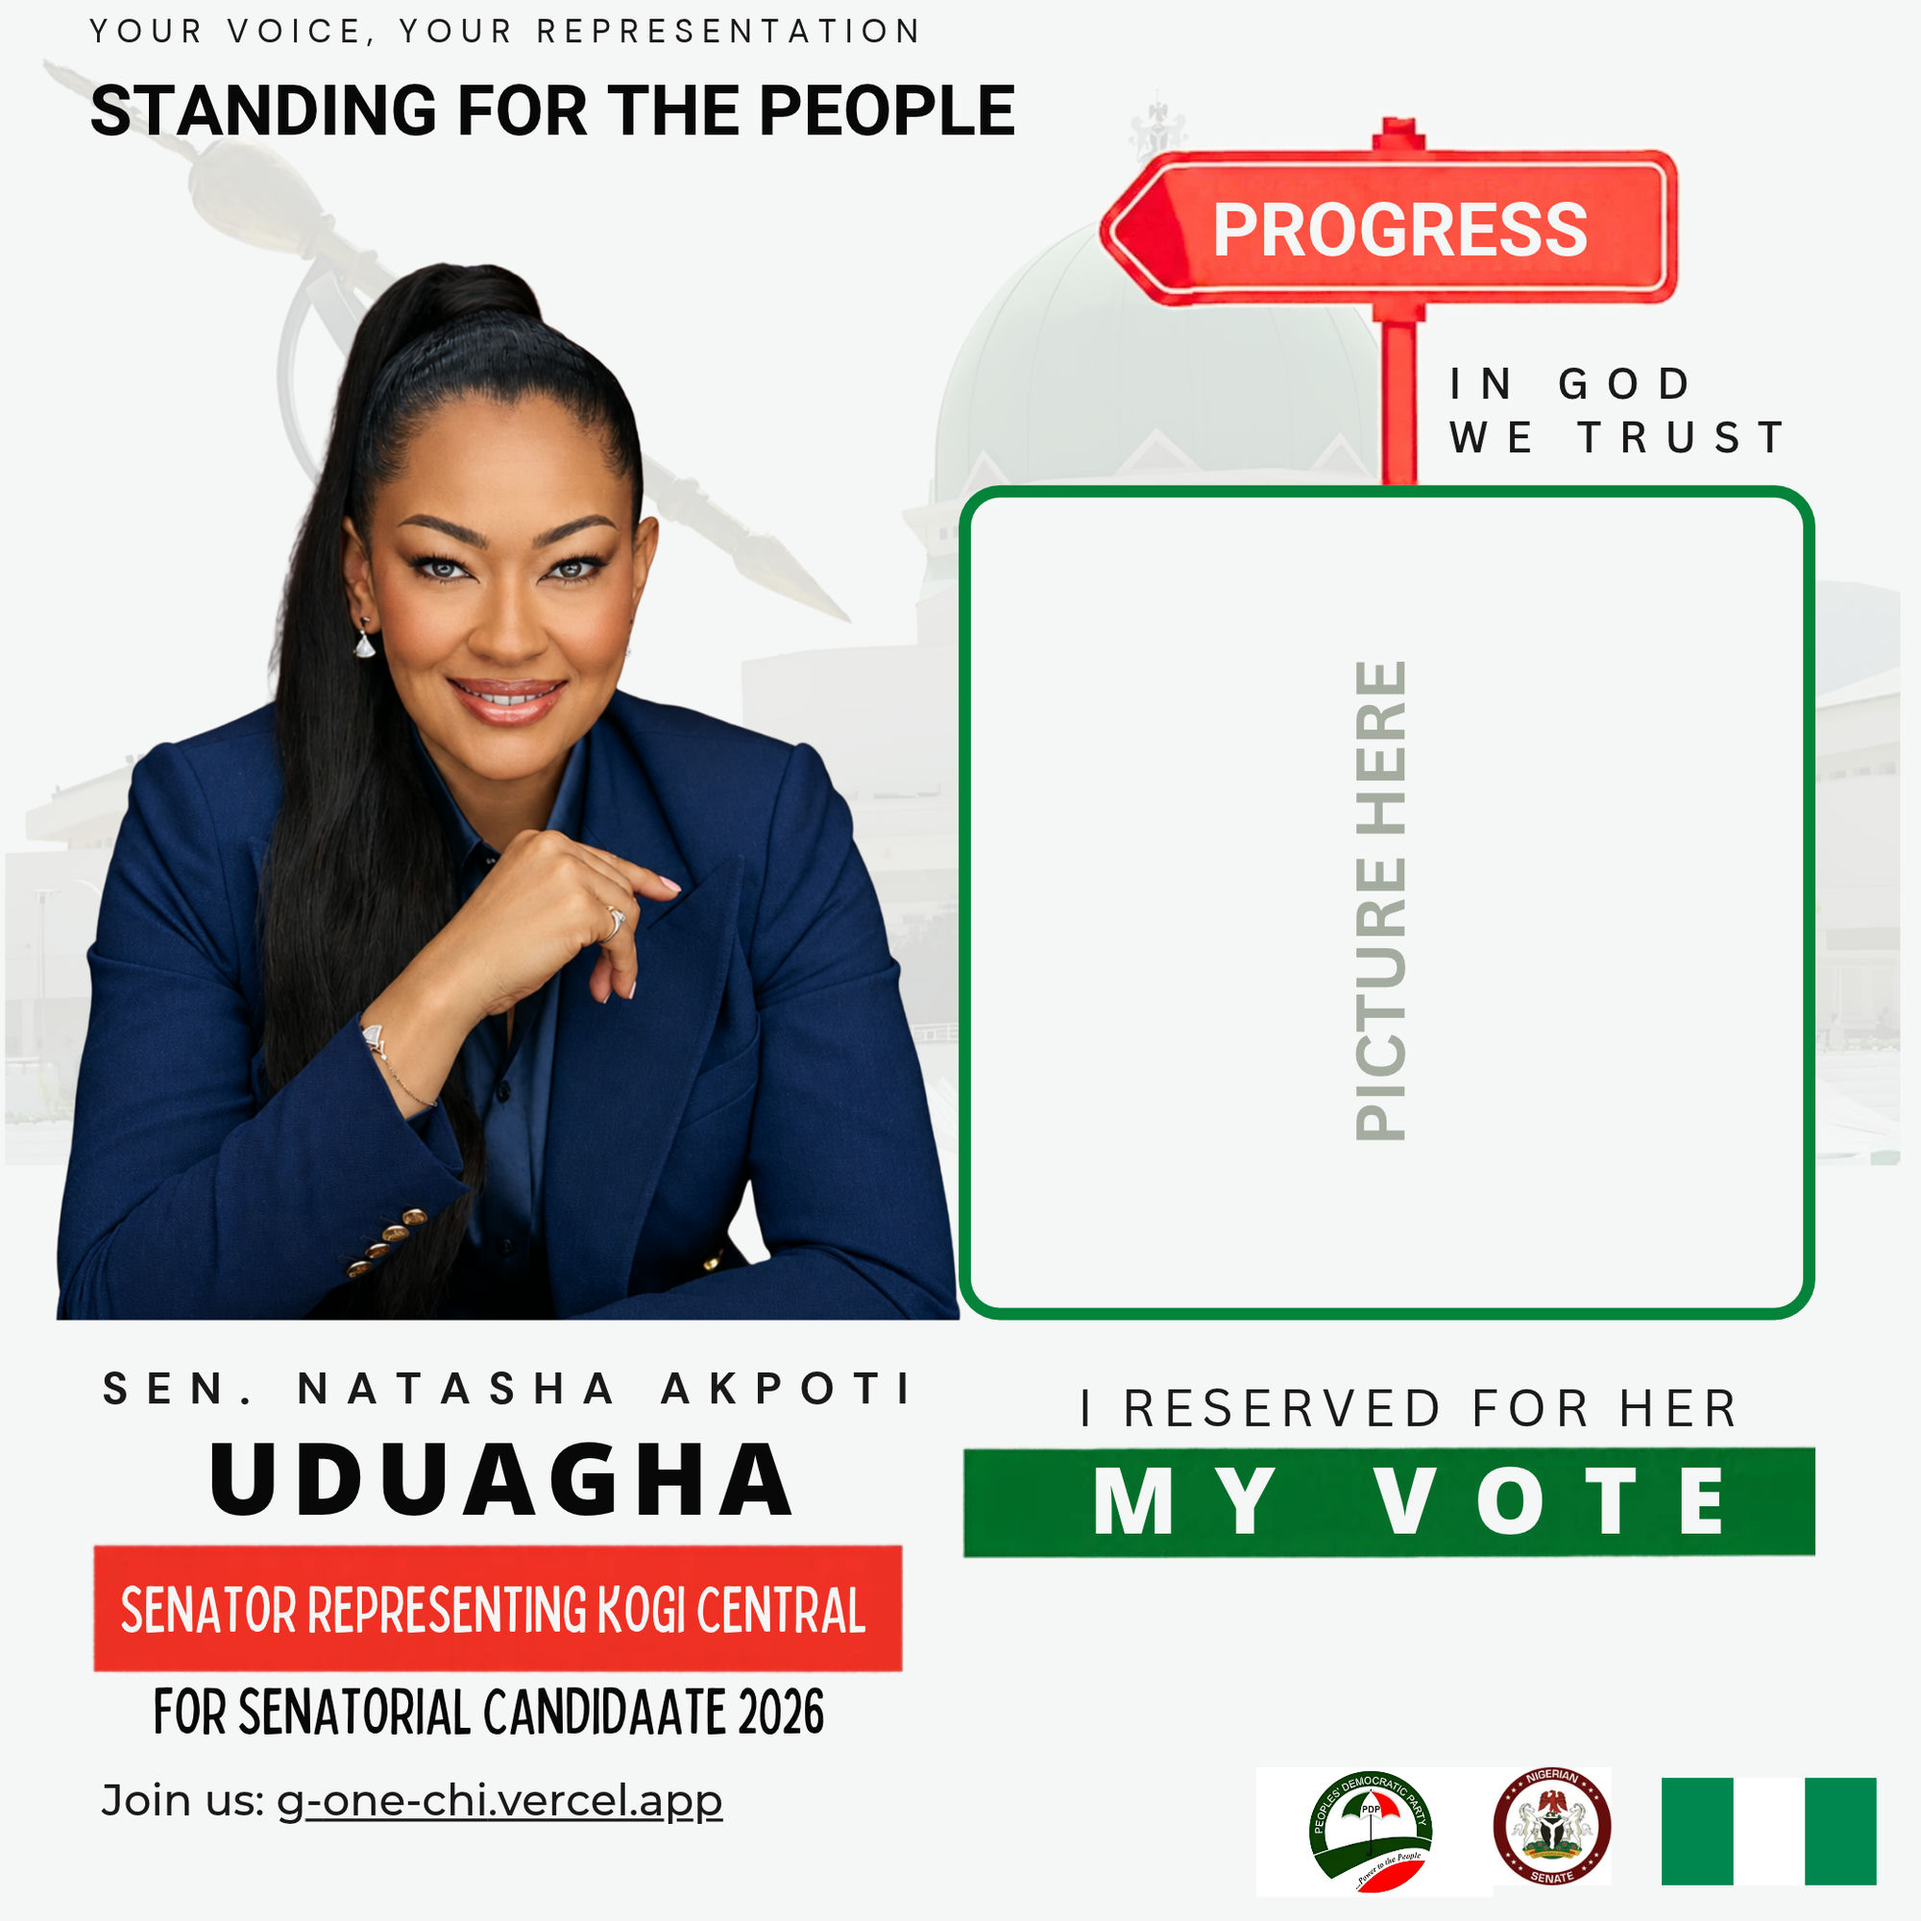
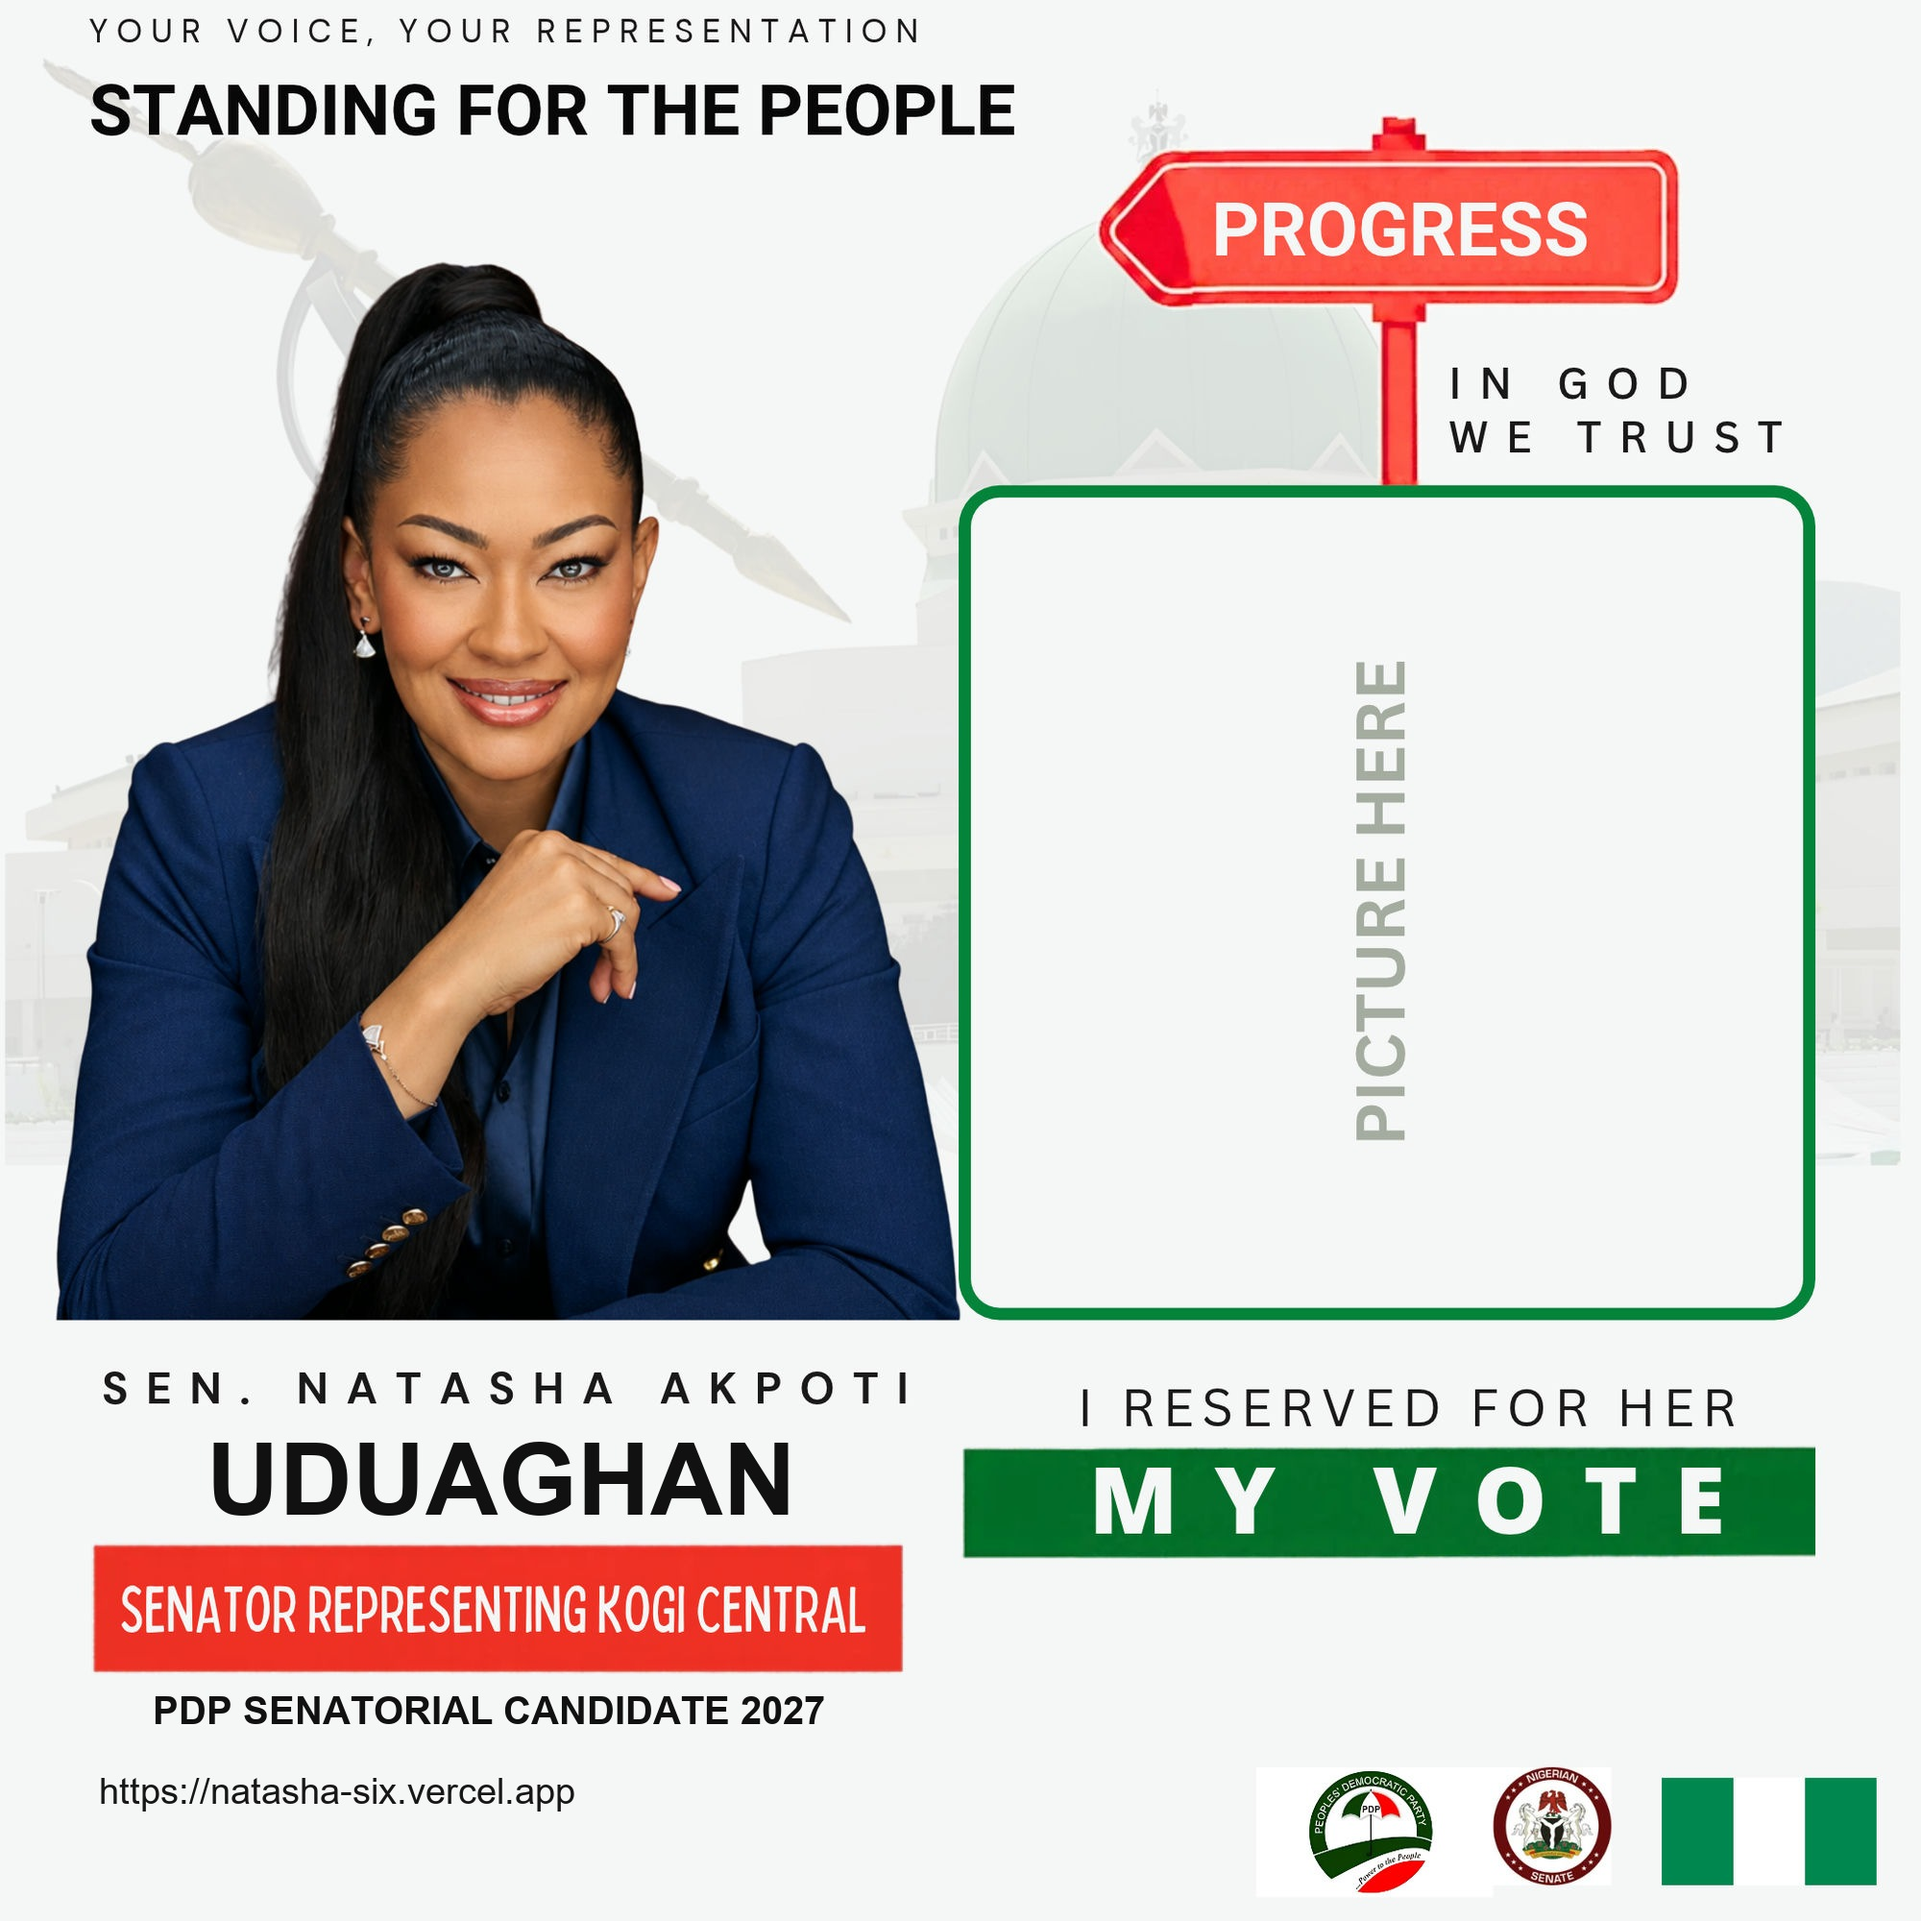
Bake poster text corrections into template image

Changed region(s): [[0.062, 0.868, 0.434, 0.961], [0.093, 0.744, 0.434, 0.806]]

diff --git a/src/pages/Generate.jsx b/src/pages/Generate.jsx
@@ -119,45 +119,6 @@ function drawPoster(ctx, size, template, photo, transform, details) {
     ctx.stroke()
     ctx.restore()
   }
-
-  // Correct the surname printed on the supplied artwork.
-  ctx.fillStyle = '#f5f7f6'
-  ctx.fillRect(200 * ratio, 1490 * ratio, 650 * ratio, 100 * ratio)
-  ctx.fillStyle = '#111111'
-  ctx.textAlign = 'center'
-  ctx.textBaseline = 'middle'
-  const surname = 'UDUAGHAN'
-  let surnameSize = 105
-  ctx.font = `900 ${Math.round(surnameSize * ratio)}px Arial, sans-serif`
-  while (ctx.measureText(surname).width > 700 * ratio && surnameSize > 40) {
-    surnameSize -= 2
-    ctx.font = `900 ${Math.round(surnameSize * ratio)}px Arial, sans-serif`
-  }
-  ctx.fillText(surname, 522 * ratio, 1540 * ratio)
-
-  // Correct the candidate line printed on the supplied artwork.
-  ctx.fillStyle = '#f5f7f6'
-  ctx.fillRect(140 * ratio, 1748 * ratio, 740 * ratio, 70 * ratio)
-  ctx.fillStyle = '#111111'
-  ctx.textAlign = 'center'
-  ctx.textBaseline = 'middle'
-  const candidateLine = 'PDP SENATORIAL CANDIDATE 2027'
-  let candidateSize = 60
-  ctx.font = `800 ${Math.round(candidateSize * ratio)}px Arial, sans-serif`
-  while (ctx.measureText(candidateLine).width > 720 * ratio && candidateSize > 30) {
-    candidateSize -= 2
-    ctx.font = `800 ${Math.round(candidateSize * ratio)}px Arial, sans-serif`
-  }
-  ctx.fillText(candidateLine, 510 * ratio, 1783 * ratio)
-
-  // Replace the unrelated URL embedded in the supplied source artwork.
-  ctx.fillStyle = '#f3f5f4'
-  ctx.fillRect(82 * ratio, 1820 * ratio, 875 * ratio, 93 * ratio)
-  ctx.fillStyle = '#171717'
-  ctx.font = `500 ${Math.round(38 * ratio)}px Arial, sans-serif`
-  ctx.textAlign = 'left'
-  ctx.textBaseline = 'middle'
-  ctx.fillText('https://natasha-six.vercel.app', 103 * ratio, 1865 * ratio)
 }
 
 export default function Generate() {
